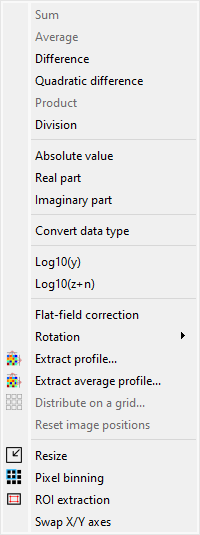
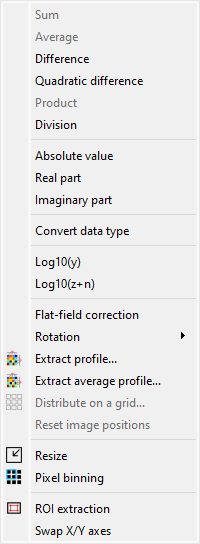
Add 1D convolution feature Fixes #23

diff --git a/cdl/core/gui/actionhandler.py b/cdl/core/gui/actionhandler.py
@@ -662,6 +662,7 @@ class BaseActionHandler(metaclass=abc.ABCMeta):
                 _("ROI extraction"),
                 triggered=self.panel.processor.compute_roi_extraction,
                 icon=get_icon(f"{self.OBJECT_STR}_roi.svg"),
+                separator=True,
             )
             self.new_action(
                 _("Swap X/Y axes"), triggered=self.panel.processor.compute_swap_axes
@@ -747,6 +748,16 @@ class SignalActionHandler(BaseActionHandler):
                 toolbar_pos=-1,
             )
         antialiasing_action.setChecked(Conf.view.sig_antialiasing.get(True))
+
+    def create_last_actions(self):
+        """Create actions that are added to the menus in the end"""
+        with self.new_category(ActionCategory.OPERATION):
+            self.new_action(
+                _("Convolution"),
+                triggered=self.panel.processor.compute_convolution,
+                separator=True,
+            )
+        super().create_last_actions()
 
 
 class ImageActionHandler(BaseActionHandler):

diff --git a/cdl/core/computation/signal.py b/cdl/core/computation/signal.py
@@ -676,3 +676,19 @@ def compute_resampling(src: SignalObj, p: ResamplingParam) -> SignalObj:
     ynew = interpolate(x, y, xnew, p.method, p.fill_value)
     dst.set_xydata(xnew, ynew)
     return dst
+
+
+def compute_convolution(src1: SignalObj, src2: SignalObj) -> SignalObj:
+    """Compute convolution of two signals
+    Args:
+        src1 (SignalObj): source signal 1
+        src2 (SignalObj): source signal 2
+    Returns:
+        SignalObj: result signal object
+    """
+    dst = dst_n1n(src1, src2, "convolution")
+    x1, y1 = src1.get_data()
+    _x2, y2 = src2.get_data()
+    ynew = np.real(sps.convolve(y1, y2, mode="same"))
+    dst.set_xydata(x1, ynew)
+    return dst

diff --git a/cdl/core/gui/processor/signal.py b/cdl/core/gui/processor/signal.py
@@ -286,6 +286,16 @@ class SignalProcessor(BaseProcessor):
         )
 
     @qt_try_except()
+    def compute_convolution(self, obj2: SignalObj | None = None) -> None:
+        """Compute convolution"""
+        self.compute_n1n(
+            obj2,
+            _("signal to convolve with"),
+            cps.compute_convolution,
+            title=_("Convolution"),
+        )
+
+    @qt_try_except()
     def compute_fit(self, name, fitdlgfunc):
         """Compute fitting curve"""
         for obj in self.panel.objview.get_sel_objects():

diff --git a/cdl/tests/scenarios/common.py b/cdl/tests/scenarios/common.py
@@ -194,6 +194,11 @@ def run_signal_computations(
         )
         panel.processor.compute_resampling(param)
 
+    # Test convolution
+    panel.objview.set_current_object(sig1)
+    panel.processor.compute_derivative()
+    panel.processor.compute_convolution(sig1)
+
 
 def run_image_computations(
     win: CDLMainWindow, data_size: int = 150, all_types: bool = True

diff --git a/CHANGELOG.md b/CHANGELOG.md
@@ -29,6 +29,9 @@ for future and past milestones.
   * Same interpolation methods as for the "Interpolation" feature
   * Possibility to specify the resampling step or the number of points
   * This fixes [Issue #21](https://github.com/Codra-Ingenierie-Informatique/DataLab/issues/21) - Add 1D resampling feature
+* New 1D convolution feature:
+  * Added "Convolution" feature to signal panel's "Operation" menu
+  * This fixes [Issue #23](https://github.com/Codra-Ingenierie-Informatique/DataLab/issues/23) - Add 1D convolution feature
 * Increased default width of the object selection dialog box:
   * The object selection dialog box is now wider by default, so that the full
     signal/image/group titles may be more easily readable

diff --git a/doc/features/signal/menu/operation.rst b/doc/features/signal/menu/operation.rst
@@ -77,6 +77,12 @@ Peak detection
         horizontal marker, peaks are detected automatically (see vertical
         markers with labels indicating peak position)
 
+Convolution
+    Create a new signal which is the convolution of each selected signal
+    with respect to another signal.
+
+    This feature is based on SciPy's `scipy.signal.convolve <https://docs.scipy.org/doc/scipy/reference/generated/scipy.signal.convolve.html>`_ function.
+
 ROI extraction
     Create a new signal from a user-defined Region of Interest (ROI).
 
